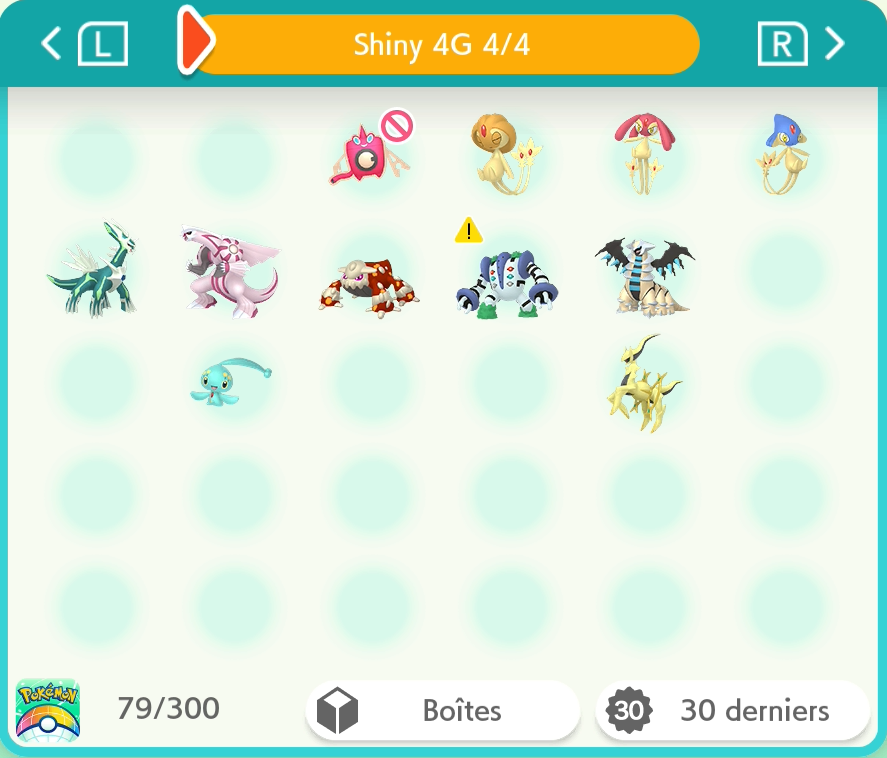
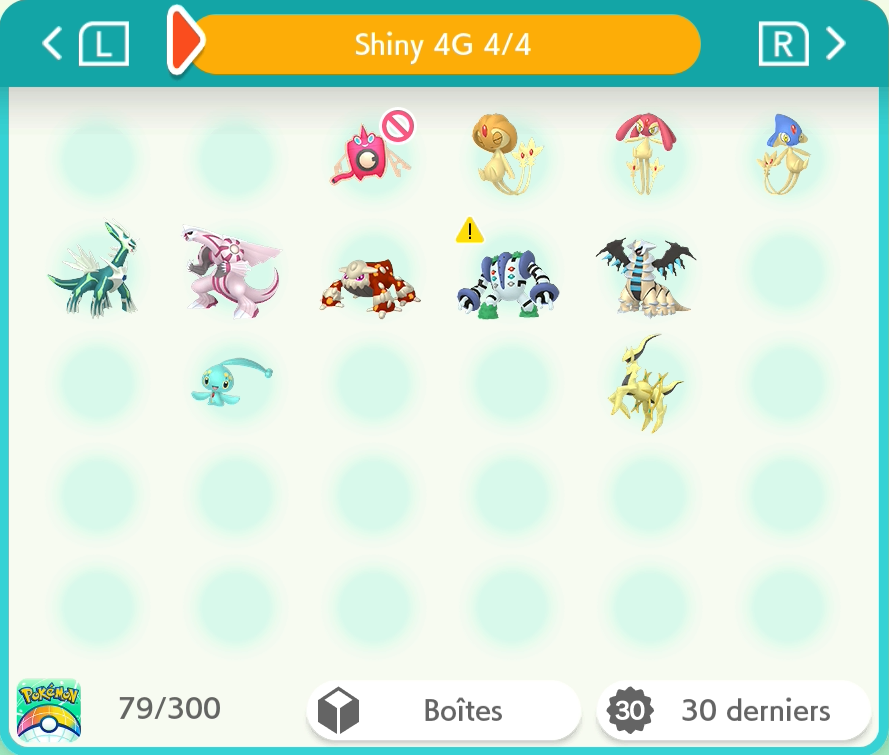
4G : Giratina (Remplace une distibution)

diff --git a/README.md b/README.md
@@ -2,7 +2,7 @@
 
 Pokémon-Elément-Sh -> <a href="https://www.pokemon-element-sh.fr/profil/karyno21" target="_blank">Karyno21</a>
 
-↓ Dernière Update le 28/10/2026 à 9h05 ↓
+↓ Dernière Update le 29/10/2026 à 3h47 ↓
 ### Dex 1-9G [307/1001] +46
 
 | Gen | Prog | Notes |
@@ -10,7 +10,7 @@ Pokémon-Elément-Sh -> <a href="https://www.pokemon-element-sh.fr/profil/karyno
 |1G|50/151|+6 : Artikodin, Électhor, Sulfura, Ptéra, Leveinard & Akwakwak|
 |2G|38/100|+6 : Celebi, Raikou, Entei, Suicune, Lugia & Ho-Oh|
 |3G|30/135|+8 : Spinda, Regirock, Regice, Registeel, Latias, Latios, Kyogre, Groudon & Jirachi|
-|4G|27/107|+7 : Créhelf, Créfollet, Créfadet, Dialga, Palkia, Heatran & Regigigas|
+|4G|27/107|+7 : Créhelf, Créfollet, Créfadet, Dialga, Palkia, Heatran, Regigigas & Giratina (Remplace une distibution)|
 |5G|31/155|+3 : Genesect (JP Event), Venipatte & Scobolide|
 |6G|30/71|+8 : Amagara, Dragmara, Ptyranidur, Volcanion (HOME), Diancie (JP Event), Lépidonille, Pérégrain & Prismillon (Floraison)|
 |7G|20/84|+4 : Type:0, Silvallié, Mandrillon & Sovkipou|
